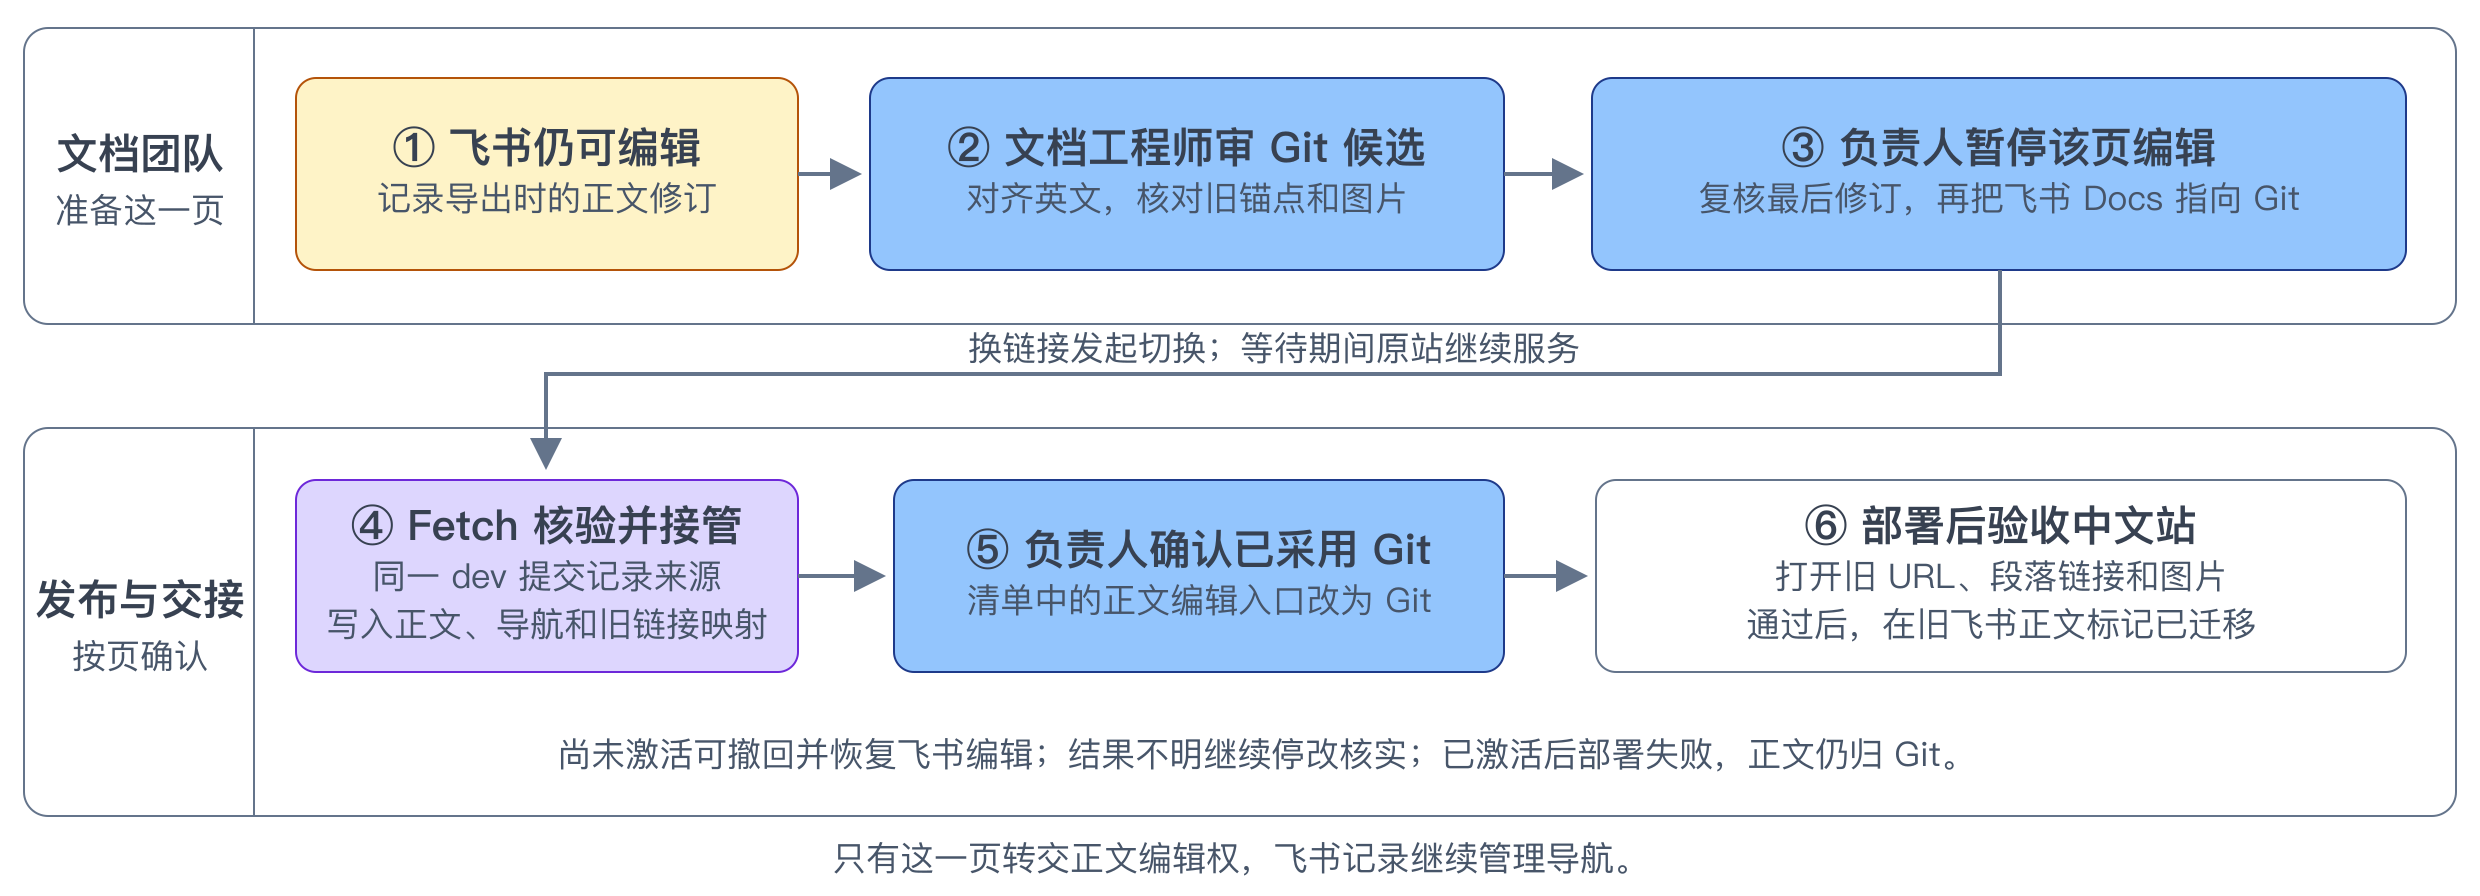
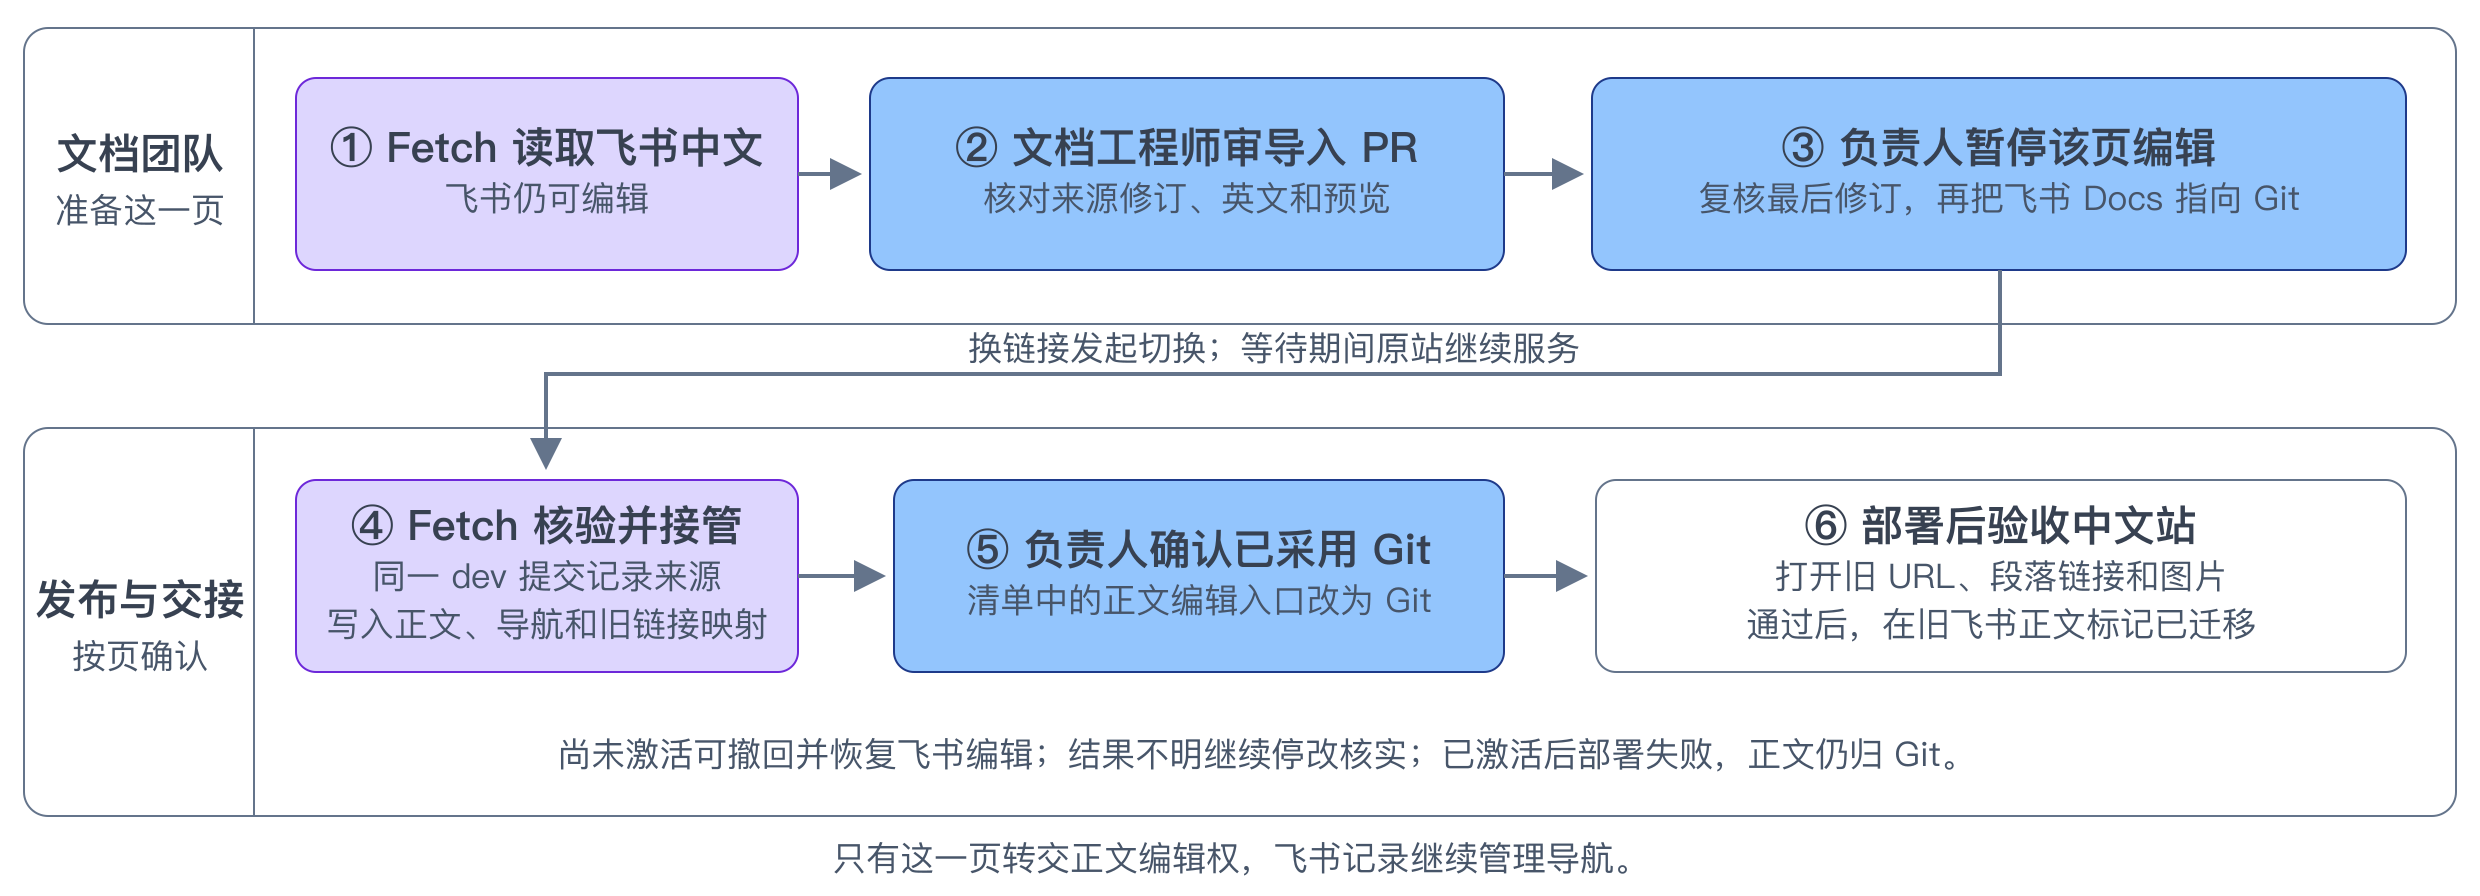
docs: distinguish Feishu fetching from the first Chinese review

Changed region(s): [[0.0931, 0.0625, 0.3415, 0.3125], [0.3726, 0.125, 0.5899, 0.25]]

diff --git a/docs/prd-zh-cn-guides.md b/docs/prd-zh-cn-guides.md
@@ -16,7 +16,9 @@
 
 共享英文原文在 `milvus-docs` 维护。Cloud 团队在 zdoc 的 `shared-docs` 中选择采用的上游版本，配置目标手册，按需补写 Cloud 专用英文片段。**翻译依据是这些输入最终生成的、对应手册和版本的 Cloud 英文文件。** 同一共享页若同时生成 Guides 和 BYOC，中文 Guides 应明确绑定 Guides 的英文输出。
 
-![目标工作流。Cloud 生成目标手册的英文文件；工具对比新旧英文，在已有中文上起草改动；文档工程师审校合入，Fetch 取稿并按通道部署。](./assets/zh-guides-source-map.png)
+**首次接入**时，现有 `fetch lark docs` 工作流按中文 Guides 飞书记录的 `Docs` 链接抓取已有的中文正文。方案拟在取稿后增加导入步骤，把中文稿和来源修订整理成面向 `master` 的 PR，由文档工程师对照目标手册的英文审校。**后续英文更新**时，工具才比较新旧英文，在 Git 中已审过的中文上起草修改。[现有 Fetch 的中文 Guides 任务](https://github.com/zilliztech/zdoc/blob/75e79b0205ce7f9f7b842f163472e64eada35e71/.github/workflows/fetch-docs.yml#L348-L359)
+
+![目标工作流。首次由 Fetch 取飞书中文，拟新增的导入步骤准备 PR，文档工程师对照英文审校。后续在 Git 已审中文上更新，已切换页面由 Fetch 从 Git 取稿。](./assets/zh-guides-source-map.png)
 
 | 角色 | 负责的决定 | 工作完成的标志 |
 |---|---|---|
@@ -24,7 +26,7 @@
 | 文档负责人 | 选择试点、确认页面对应关系、安排单页停改和交接 | 迁移清单标明该页负责人及当前编辑入口，原网址和旧链接通过验收 |
 | 发布负责人 | 确认待发中文是否与已验收的预览一致，决定是否随功能上线 | 能指出正式站采用了哪份中文，以及哪些页面仍在等待审校 |
 
-对已切换的页面，文档团队在 zdoc 的 `master` 分支维护 `localized-docs/zh-CN/guides/<中文页面 ID>/index.md`。**每个 `index.md` 都是一篇完整的中文正文**，包含标题、步骤、示例和链接。只修中文也可以直接给这个文件提 PR。Fetch 是 zdoc 的取稿流程，负责把已审稿写入 `dev` 分支的 `content/zh-CN/`，供中文站部署。
+对已切换的页面，文档团队在 zdoc 的 `master` 分支维护 `localized-docs/zh-CN/guides/<中文页面 ID>/index.md`。**每个 `index.md` 都是一篇完整的中文正文**，包含标题、步骤、示例和链接。只修中文也可以直接给这个文件提 PR。切换后，方案要求 Fetch 从该 Git 目录读取已审正文，写入 `dev` 分支的 `content/zh-CN/`，供中文站部署。
 
 <details>
 <summary>目录选择依据：中文编辑源和日文发布目录</summary>
@@ -38,7 +40,7 @@
 ### 3.1 接入一页并交接编辑权
 
 1. **确认对应关系。** 文档负责人登记英文共享页 ID、目标手册和英文文件、中文飞书记录、中文页面 ID 与主审。中文 ID 用作固定目录名，页面改标题或网址时仍沿用。若一条记录供多本手册使用，先核对所有目标。缺中文的页面列为待评估首译；缺英文或存在拆页、合页的，维持原有维护方式，等待确认。
-2. **建立第一份已审底稿。** 拟复用 Fetch 读取飞书最新中文并记录修订，通过导入 PR 与固定版本的 Cloud 英文逐段核对。已确认的部分记下对应英文，历史欠译另列待办，中文独有的说明由主审确认保留。导入 PR 合入后，正文仍在飞书维护。
+2. **建立第一份已审底稿。** 首次建仓拟使用 Fetch 取得的中文材料，不发布候选稿。导入 PR 须能追溯飞书修订，主审逐段核对该稿与固定版本的 Cloud 英文。已确认的部分记下对应英文，历史欠译另列待办，中文独有的说明由主审确认保留。导入 PR 合入后，正文仍在飞书维护。
 3. **逐页切换。** 文档负责人暂停该页编辑，核对并补齐导出后的飞书修改，再将原飞书记录的 `Docs` 链接指向 Git 目录。**只有 Fetch 确认已采用 Git，才将清单上的编辑入口改为 Git。** 部署后用原网址检查正文、图片和段落链接，验收通过后标记旧稿。
 
 ![逐页交接。导入候选稿时仍在飞书编辑；短暂停改并换链接后等待 Fetch 确认，然后更新编辑入口，验收原网址。](./assets/zh-page-cutover.png)
